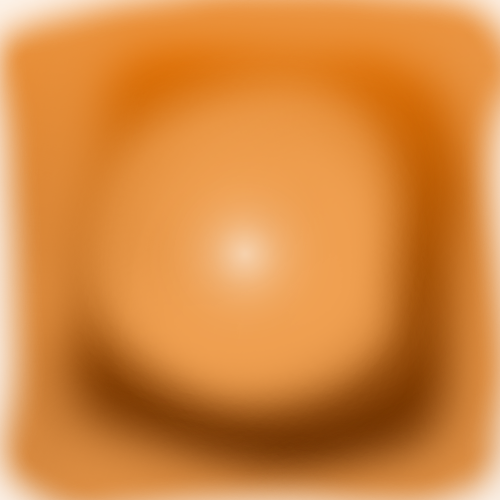
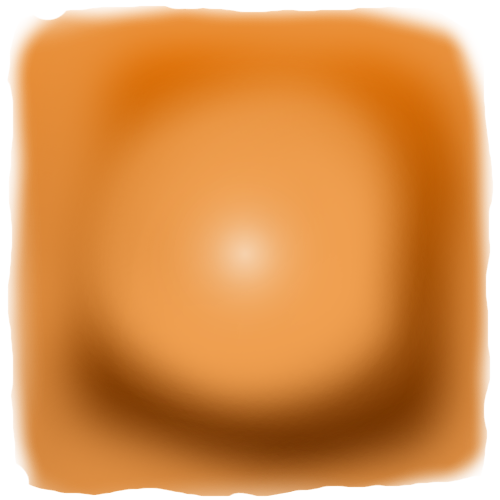
Adjusted the poof.

Changed region(s): [[0.0, 0.0, 1.0, 1.0]]

diff --git a/RunningGame/Entities/spawnBlockEntity.cs b/RunningGame/Entities/spawnBlockEntity.cs
@@ -39,29 +39,29 @@ namespace RunningGame.Entities {
             List<string> animImgDefaults = new List<string>()
             {
                 "RunningGame.Resources.Artwork.Foreground.BlockSquare.png",
-                "RunningGame.Resources.Artwork.Foreground.SpawnBlock.SpawnPoof1.png",
-                //"RunningGame.Resources.Artwork.Foreground.SpawnBlock.SpawnPoof2.png",
-                "RunningGame.Resources.Artwork.Foreground.SpawnBlock.SpawnPoof3.png",
-                //"RunningGame.Resources.Artwork.Foreground.SpawnBlock.SpawnPoof4.png",
-                "RunningGame.Resources.Artwork.Foreground.SpawnBlock.SpawnPoof5.png",
+                //"RunningGame.Resources.Artwork.Foreground.SpawnBlock.SpawnPoof1.png",
+                "RunningGame.Resources.Artwork.Foreground.SpawnBlock.SpawnPoof2.png",
+                //"RunningGame.Resources.Artwork.Foreground.SpawnBlock.SpawnPoof3.png",
+                "RunningGame.Resources.Artwork.Foreground.SpawnBlock.SpawnPoof4.png",
+                //"RunningGame.Resources.Artwork.Foreground.SpawnBlock.SpawnPoof5.png",
                 "RunningGame.Resources.Artwork.Foreground.SpawnBlock.SpawnPoof6.png",
                 "RunningGame.Resources.Artwork.Foreground.SpawnBlock.SpawnPoof7.png"
             };
             List<string> animImg = new List<string>()
             {
                 "Artwork.Foreground.BlockSquare",
-                "Artwork.Foreground.SpawnBlock.SpawnPoof1",
-                //"Artwork.Foreground.SpawnBlock.SpawnPoof2",
-                "Artwork.Foreground.SpawnBlock.SpawnPoof3",
-                //"Artwork.Foreground.SpawnBlock.SpawnPoof4",
-                "Artwork.Foreground.SpawnBlock.SpawnPoof5",
+                //"Artwork.Foreground.SpawnBlock.SpawnPoof1",
+                "Artwork.Foreground.SpawnBlock.SpawnPoof2",
+                //"Artwork.Foreground.SpawnBlock.SpawnPoof3",
+                "Artwork.Foreground.SpawnBlock.SpawnPoof4",
+                //"Artwork.Foreground.SpawnBlock.SpawnPoof5",
                 "Artwork.Foreground.SpawnBlock.SpawnPoof6",
                 "Artwork.Foreground.SpawnBlock.SpawnPoof7"
             };
 
             drawComp.addAnimatedSprite( animImg, animImgDefaults, blockAnimationName );
 
-            AnimationComponent animComp = (AnimationComponent)addComponent( new AnimationComponent( 0.001f ), true );
+            AnimationComponent animComp = (AnimationComponent)addComponent( new AnimationComponent( 0.0001f ), true );
             animComp.animationOn = false;
             animComp.destroyAfterCycle = true;
 
